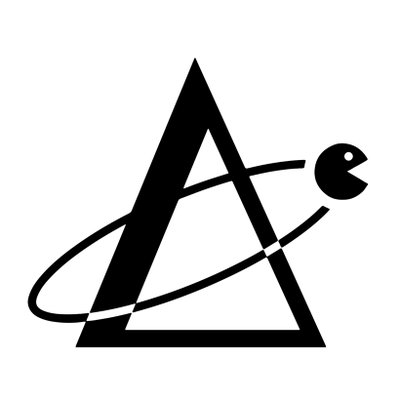
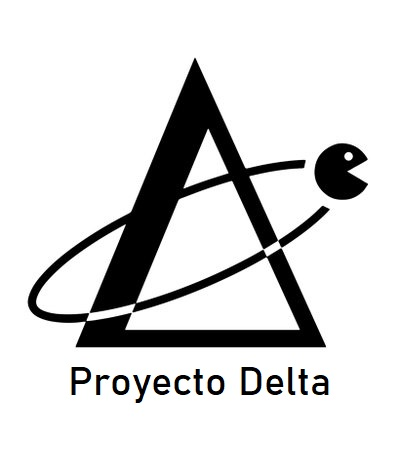
Updated sponsors

Changed region(s): [[0.06, 0.12, 0.93, 0.87]]

diff --git a/src/dataset.ts b/src/dataset.ts
@@ -49,12 +49,18 @@ export const SPONSORS: Sponsor[][] = [
       link: "https://gutl.jovenclub.cu/",
       photo: require("../assets/sponsors/gutl_logo.png"),
     },
-    // {
-    //   id: "proyecto_delta",
-    //   name: "Proyecto Delta",
-    //   link: "https://www.facebook.com/proyectodelta101",
-    //   photo: require("../assets/sponsors/proyecto_delta.jpg"),
-    // },
+    {
+      id: "proyecto_delta",
+      name: "Proyecto Delta",
+      link: "https://www.facebook.com/proyectodelta101",
+      photo: require("../assets/sponsors/proyecto_delta.jpg"),
+    },
+    {
+      id: "cuban_trail_team",
+      name: "Cuban Trail Team",
+      link: "https://www.cubantrailteam.com/",
+      photo: require("../assets/sponsors/cuban-trail-team.jpg"),
+    },
   ],
 ];
 

diff --git a/src/Components/SponsorsShowcase/index.css b/src/Components/SponsorsShowcase/index.css
@@ -35,14 +35,14 @@
 
   @media (--tablet) {
     &--row {
-      grid-template-columns: repeat(2, 1fr);
+      grid-template-columns: repeat(4, 1fr);
 
       &:first-child {
-        grid-template-columns: repeat(2, 1fr);
+        grid-template-columns: repeat(4, 1fr);
       }
 
       &:last-child {
-        grid-template-columns: repeat(2, 1fr);
+        grid-template-columns: repeat(4, 1fr);
       }
 
       #bit4id {
